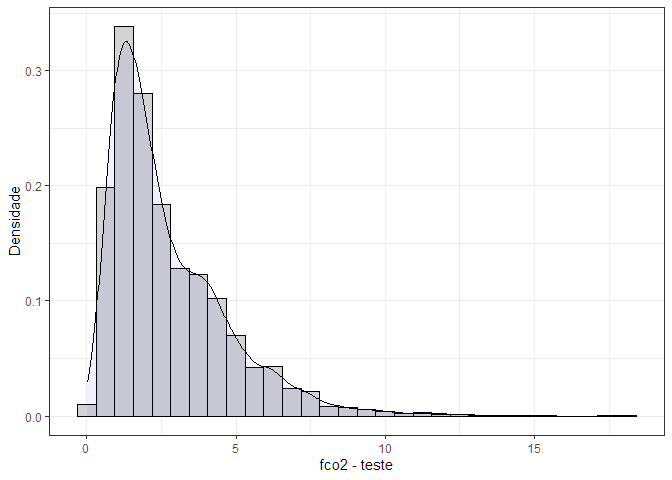
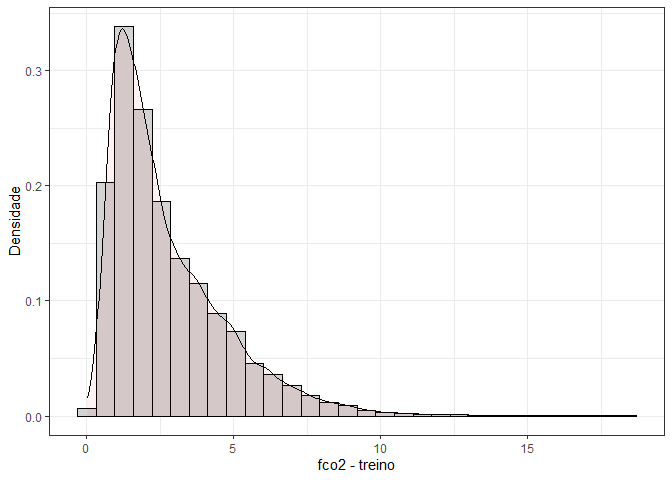
redes neurais - pronto

diff --git a/README.md b/README.md
@@ -108,6 +108,20 @@ glimpse(data_set)
 #> $ inso           <dbl> 10.1, 10.1, 10.1, 10.1, 10.1, 10.1, 10.1, 10.1, 10.1, 1…
 ```
 
+##### Extraindo o grupo de variáveis
+
+``` r
+time_var <- data_set |> select(data:month) |> names()
+catego_var <- data_set |> select(cultura, manejo, tratamento) |> names()
+din_var <- data_set |> select(fco2:us,pla) |> names()
+chemical_var <- data_set |> select(ph:v,hlifs) |> names()
+physical_var <- data_set |> select(ds:vtp) |> names()
+textural_var <- data_set |> select(at:arg) |> names()
+textural_var <- data_set |> select(at:arg) |> names()
+orbital_var <- data_set |> select(xco2_trend:sif) |> names()
+meteorological_var <- data_set |> select(tmed:inso) |> names()
+```
+
 ### Dividindo a base entre treino e teste
 
 ``` r
@@ -115,7 +129,7 @@ fco2_initial_split <- initial_split(data_set, prop = 0.80)
 fco2_train <- training(fco2_initial_split)
 # fco2_test <- testing(fco2_initial_split)
 # visdat::vis_miss(fco2_test)
-fco2_train  %>% 
+fco2_train  |>  
   ggplot(aes(x=fco2, y=..density..))+
   geom_histogram(bins = 30, color="black",  fill="lightgray")+
   geom_density(alpha=.05,fill="red")+
@@ -123,11 +137,11 @@ fco2_train  %>%
   labs(x="fco2 - treino", y = "Densidade")
 ```
 
-![](README_files/figure-gfm/unnamed-chunk-4-1.png)<!-- -->
+![](README_files/figure-gfm/unnamed-chunk-5-1.png)<!-- -->
 
 ``` r
 fco2_testing <- testing(fco2_initial_split)
-fco2_testing  %>% 
+fco2_testing  |>  
   ggplot(aes(x=fco2, y=..density..))+
   geom_histogram(bins = 30, color="black",  fill="lightgray")+
   geom_density(alpha=.05,fill="blue")+
@@ -135,7 +149,7 @@ fco2_testing  %>%
   labs(x="fco2 - teste", y = "Densidade")
 ```
 
-![](README_files/figure-gfm/unnamed-chunk-5-1.png)<!-- -->
+![](README_files/figure-gfm/unnamed-chunk-6-1.png)<!-- -->
 
 ### Definindo a Reamostragem
 
@@ -147,46 +161,45 @@ fco2_resamples <- vfold_cv(fco2_train, v = 5)
 
 ``` r
 fco2_recipe <- recipe(fco2 ~ ., 
-                      data = fco2_train %>% 
-            select(fco2:inso) 
-) %>%  
-  step_normalize(all_numeric_predictors())  %>% 
-  step_naomit() %>%  
-  step_novel(all_nominal_predictors()) %>% 
-  step_zv(all_predictors()) %>%
-  # step_naomit(c(ts, us)) %>% 
-  step_impute_median(where(is.numeric)) %>% # inputação da mediana nos numéricos
-  # step_poly(c(Us,Ts), degree = 2)  %>%  
-  step_dummy(all_nominal_predictors())
+                      data = fco2_train |>  
+            select(year,manejo, fco2:inso, -xco2_trend) # 
+) |>   
+  # step_naomit(all_outcomes()) |>  # remove linhas sem fco2  
+  step_naomit(c(ts, us)) |>  # retira NAs somente de ts e us
+  step_novel(all_nominal_predictors()) |>  # evitar problemas quando aparece categoria nova
+  step_zv(all_predictors()) |> # evita problemas com variância zero 
+  step_poly(c(us,ts), degree = 2)  |> #polinômios de us e ts de grau 2  
+  step_impute_median(all_numeric_predictors()) |>  # inputação da mediana - antes de normalize
+  step_normalize(all_numeric_predictors())  |>  # padronização normal (x-mu)/sigmma
+  step_dummy(all_nominal_predictors()) # converte fatores em variáveis binárias
 bake(prep(fco2_recipe), new_data = NULL)
-#> # A tibble: 11,981 × 40
-#>         ts     us      ph      mo      p      k     ca      mg    h_al      sb
-#>      <dbl>  <dbl>   <dbl>   <dbl>  <dbl>  <dbl>  <dbl>   <dbl>   <dbl>   <dbl>
-#>  1  0.527   0.206 -0.845   0.0694 -0.775 -0.685 -0.594  0.120   0.333  -0.481 
-#>  2 -0.0801 -0.134 -0.192  -1.55    5.93  -1.07  -0.893 -1.80   -1.57   -1.26  
-#>  3  0.982  -0.247 -0.682   0.959  -0.473 -0.313 -0.386  0.693   0.542  -0.132 
-#>  4  1.27   -0.700 -0.0285 -0.416  -0.321 -0.592 -0.525 -0.453  -0.360  -0.573 
-#>  5  0.257  -0.421 -1.17    0.393  -0.876 -0.313 -0.871 -0.262  -1.68   -0.747 
-#>  6  0.0211 -0.248  0.788  -0.254  -0.725 -0.872 -0.247  1.08   -1.05    0.0112
-#>  7  1.01    0.885  0.298   0.0694 -0.170  1.78   0.931  1.08   -0.0482  1.17  
-#>  8 -3.50    0.840 -0.845  -1.47    0.586 -0.220 -0.594  0.120   1.72   -0.430 
-#>  9  1.17   -0.813 -1.01    0.474  -0.674  0.106 -0.733 -0.0709  1.37   -0.547 
-#> 10  0.696  -1.15   0.951   1.44   -0.473 -0.220  2.60   1.65   -0.499   2.34  
-#> # ℹ 11,971 more rows
-#> # ℹ 30 more variables: ctc <dbl>, v <dbl>, ds <dbl>, macro <dbl>, micro <dbl>,
-#> #   vtp <dbl>, pla <dbl>, at <dbl>, silte <dbl>, arg <dbl>, hlifs <dbl>,
-#> #   xco2_trend <dbl>, xco2 <dbl>, sif <dbl>, tmed <dbl>, tmax <dbl>,
-#> #   tmin <dbl>, umed <dbl>, umax <dbl>, umin <dbl>, pk_pa <dbl>, rad <dbl>,
-#> #   par <dbl>, eto <dbl>, velmax <dbl>, velmin <dbl>, dir_vel <dbl>,
-#> #   chuva <dbl>, inso <dbl>, fco2 <dbl>
+#> # A tibble: 10,442 × 52
+#>      year     ph     mo       p      k      ca      mg    h_al     sb    ctc
+#>     <dbl>  <dbl>  <dbl>   <dbl>  <dbl>   <dbl>   <dbl>   <dbl>  <dbl>  <dbl>
+#>  1 -1.73  -0.110 -1.51   0.634  -1.06  -0.869  -1.55   -1.61   -1.18  -2.25 
+#>  2 -1.49  -0.285  0.323  0.183   1.45   0.661   0.535   0.775   0.794  1.16 
+#>  3  0.735 -0.809 -1.05   0.710  -0.393 -0.462  -0.230   0.775  -0.447  0.404
+#>  4  1.23  -0.984 -1.62   0.394   0.173 -0.743  -0.421   1.05   -0.644  0.538
+#>  5  0.488 -0.460  0.970 -0.607  -0.487  0.0293  0.918   0.293   0.218  0.366
+#>  6  0.241 -1.51   1.37  -0.607  -0.440 -0.322   0.535   1.67   -0.140  1.42 
+#>  7 -1.73  -0.110 -1.62  -0.0276 -1.04  -0.932  -1.72   -1.58   -1.27  -2.27 
+#>  8 -0.993  0.414  2.05   0.335   1.87   1.64    0.0760 -0.0873  1.44   0.763
+#>  9 -0.499  2.56   0.524  0.438   0.827  2.07    1.87   -0.972   2.13   0.359
+#> 10  1.23   1.11  -0.971 -0.818  -0.958 -0.392  -0.995  -1.71   -0.665 -1.64 
+#> # ℹ 10,432 more rows
+#> # ℹ 42 more variables: v <dbl>, ds <dbl>, macro <dbl>, micro <dbl>, vtp <dbl>,
+#> #   pla <dbl>, at <dbl>, silte <dbl>, arg <dbl>, hlifs <dbl>, xco2 <dbl>,
+#> #   sif <dbl>, tmed <dbl>, tmax <dbl>, tmin <dbl>, umed <dbl>, umax <dbl>,
+#> #   umin <dbl>, pk_pa <dbl>, rad <dbl>, par <dbl>, eto <dbl>, velmax <dbl>,
+#> #   velmin <dbl>, dir_vel <dbl>, chuva <dbl>, inso <dbl>, fco2 <dbl>,
+#> #   us_poly_1 <dbl>, us_poly_2 <dbl>, ts_poly_1 <dbl>, ts_poly_2 <dbl>, …
 ```
 
 #### Definição do Modelo de RNA - MultiLayer Perceptron
 
 ``` r
-fco2_nn_model <- mlp(
-  hidden_units = 4) %>% # margin sempre para regressão
-  set_mode("regression") %>%
+fco2_nn_model <- mlp() |>  # margin sempre para regressão
+  set_mode("regression") |> 
   set_engine("nnet")
 ```
 
@@ -197,16 +210,16 @@ fco2_nn_model <- mlp(
   hidden_units = tune(),
   penalty = tune(),
   epochs = tune()
-  ) %>% # margin sempre para regressão
-  set_mode("regression") %>%
+  ) |>  # margin sempre para regressão
+  set_mode("regression") |> 
   set_engine("nnet")
 ```
 
 #### Workflow e tunagem
 
 ``` r
-fco2_nn_wf <- workflow()   %>%
-  add_model(fco2_nn_model) %>%
+fco2_nn_wf <- workflow()   |> 
+  add_model(fco2_nn_model) |> 
   add_recipe(fco2_recipe)
 # Criando a matriz (grid) com os valores de hiperparâmetros a serem testados
 # grid_nn <- expand.grid(
@@ -216,17 +229,17 @@ fco2_nn_wf <- workflow()   %>%
 # )
 
 grid_nn <- grid_regular(
-  hidden_units(range = c(2, 10)), ## tentar até 250
-  penalty(range = c(3, 10)), ## no máximo 30
-  epochs(range = c(5, 10)),
-  levels = c(2, 2, 2)
+  hidden_units(range = c(2, 128)), ## tentar até 250
+  penalty(range = c(-5, 0), trans = scales::log10_trans()), ## no máximo 30
+  epochs(range = c(20, 300)),
+  levels = c(3, 3, 3)
 )
 glimpse(grid_nn)
-#> Rows: 8
+#> Rows: 27
 #> Columns: 3
-#> $ hidden_units <int> 2, 10, 2, 10, 2, 10, 2, 10
-#> $ penalty      <dbl> 1e+03, 1e+03, 1e+10, 1e+10, 1e+03, 1e+03, 1e+10, 1e+10
-#> $ epochs       <int> 5, 5, 5, 5, 10, 10, 10, 10
+#> $ hidden_units <int> 2, 65, 128, 2, 65, 128, 2, 65, 128, 2, 65, 128, 2, 65, 12…
+#> $ penalty      <dbl> 0.000010000, 0.000010000, 0.000010000, 0.003162278, 0.003…
+#> $ epochs       <int> 20, 20, 20, 20, 20, 20, 20, 20, 20, 160, 160, 160, 160, 1…
 
 fco2_nn_tune_grid <- tune_grid(
   fco2_nn_wf,
@@ -237,52 +250,53 @@ fco2_nn_tune_grid <- tune_grid(
 autoplot(fco2_nn_tune_grid)
 ```
 
-![](README_files/figure-gfm/unnamed-chunk-10-1.png)<!-- -->
+![](README_files/figure-gfm/unnamed-chunk-11-1.png)<!-- -->
 
 ### Coletando métricas
 
 ``` r
 collect_metrics(fco2_nn_tune_grid)
-#> # A tibble: 8 × 9
-#>   hidden_units     penalty epochs .metric .estimator  mean     n std_err .config
-#>          <int>       <dbl>  <int> <chr>   <chr>      <dbl> <int>   <dbl> <chr>  
-#> 1            2        1000      5 rmse    standard    2.04     5  0.0901 Prepro…
-#> 2           10        1000      5 rmse    standard    1.58     5  0.0106 Prepro…
-#> 3            2 10000000000      5 rmse    standard    3.40     5  0.0386 Prepro…
-#> 4           10 10000000000      5 rmse    standard    3.41     5  0.0401 Prepro…
-#> 5            2        1000     10 rmse    standard    1.85     5  0.0463 Prepro…
-#> 6           10        1000     10 rmse    standard    1.51     5  0.0236 Prepro…
-#> 7            2 10000000000     10 rmse    standard    3.42     5  0.0223 Prepro…
-#> 8           10 10000000000     10 rmse    standard    3.42     5  0.0210 Prepro…
-fco2_nn_tune_grid %>%
+#> # A tibble: 9 × 9
+#>   hidden_units penalty epochs .metric .estimator  mean     n std_err .config    
+#>          <int>   <dbl>  <int> <chr>   <chr>      <dbl> <int>   <dbl> <chr>      
+#> 1            2 0.00001     20 rmse    standard    1.46     5  0.0340 Preprocess…
+#> 2            2 0.00316     20 rmse    standard    1.83     5  0.241  Preprocess…
+#> 3            2 1           20 rmse    standard    1.63     5  0.0574 Preprocess…
+#> 4            2 0.00001    160 rmse    standard    1.42     5  0.0260 Preprocess…
+#> 5            2 0.00316    160 rmse    standard    1.42     5  0.0468 Preprocess…
+#> 6            2 1          160 rmse    standard    1.32     5  0.0264 Preprocess…
+#> 7            2 0.00001    300 rmse    standard    1.92     5  0.386  Preprocess…
+#> 8            2 0.00316    300 rmse    standard    1.36     5  0.0244 Preprocess…
+#> 9            2 1          300 rmse    standard    1.31     5  0.0234 Preprocess…
+fco2_nn_tune_grid |> 
   show_best(metric = "rmse", n = 6)
 #> # A tibble: 6 × 9
-#>   hidden_units     penalty epochs .metric .estimator  mean     n std_err .config
-#>          <int>       <dbl>  <int> <chr>   <chr>      <dbl> <int>   <dbl> <chr>  
-#> 1           10        1000     10 rmse    standard    1.51     5  0.0236 Prepro…
-#> 2           10        1000      5 rmse    standard    1.58     5  0.0106 Prepro…
-#> 3            2        1000     10 rmse    standard    1.85     5  0.0463 Prepro…
-#> 4            2        1000      5 rmse    standard    2.04     5  0.0901 Prepro…
-#> 5            2 10000000000      5 rmse    standard    3.40     5  0.0386 Prepro…
-#> 6           10 10000000000      5 rmse    standard    3.41     5  0.0401 Prepro…
+#>   hidden_units penalty epochs .metric .estimator  mean     n std_err .config    
+#>          <int>   <dbl>  <int> <chr>   <chr>      <dbl> <int>   <dbl> <chr>      
+#> 1            2 1          300 rmse    standard    1.31     5  0.0234 Preprocess…
+#> 2            2 1          160 rmse    standard    1.32     5  0.0264 Preprocess…
+#> 3            2 0.00316    300 rmse    standard    1.36     5  0.0244 Preprocess…
+#> 4            2 0.00316    160 rmse    standard    1.42     5  0.0468 Preprocess…
+#> 5            2 0.00001    160 rmse    standard    1.42     5  0.0260 Preprocess…
+#> 6            2 0.00001     20 rmse    standard    1.46     5  0.0340 Preprocess…
 ```
 
 ### Desempenho do modelo final
 
 ``` r
 fco2_nn_best_params <- select_best(fco2_nn_tune_grid, metric = "rmse")
-fco2_nn_wf <- fco2_nn_wf %>%
+fco2_nn_wf <- fco2_nn_wf |> 
   finalize_workflow(fco2_nn_best_params)
 fco2_nn_last_fit <- last_fit(fco2_nn_wf, fco2_initial_split)
 
 ## Criando os preditos
 fco2_test_preds <- bind_rows(
-  collect_predictions(fco2_nn_last_fit)  %>%
+  collect_predictions(fco2_nn_last_fit)  |> 
     mutate(modelo = "nn"))
 
 fco2_test <- testing(fco2_initial_split)
 
-fco2_test_preds %>%
+fco2_test_preds |> 
   ggplot(aes(x=.pred, y=fco2)) +
   geom_point()+
   theme_bw() +
@@ -292,7 +306,7 @@ fco2_test_preds %>%
   geom_abline (slope=1, linetype = "dashed", color="Red")
 ```
 
-![](README_files/figure-gfm/unnamed-chunk-12-1.png)<!-- -->
+![](README_files/figure-gfm/unnamed-chunk-13-1.png)<!-- -->
 
 ``` r
 fco2_nn_last_fit_model <- fco2_nn_last_fit$.workflow[[1]]$fit$fit
@@ -305,35 +319,26 @@ vip(fco2_nn_last_fit_model,
   theme_bw()
 ```
 
-![](README_files/figure-gfm/unnamed-chunk-13-1.png)<!-- -->
+![](README_files/figure-gfm/unnamed-chunk-14-1.png)<!-- -->
 
 ``` r
-features <- rownames(fco2_nn_last_fit_model$fit$importance)
-importance_top_10 <- fco2_nn_last_fit_model$fit$importance |> 
-  as_tibble() |> 
-  add_column(feature = features) |> 
-  arrange(desc(IncNodePurity)) |> 
-  relocate(feature) |> 
+importance_top_10 <- vi(fco2_nn_last_fit_model) |> 
+  arrange(desc(Importance)) |> 
   slice(1:10)
 
-atr_fisicos <- features[c(14:17,19:21)]
-atr_quimicos <- features[c(4:13)]
-atr_dinamicos <- features[c(2,3,18)]
-atr_climaticos <- features[c(22:34)]
-atr_orbitais <- features[c(35:36)]
-
 importance_top_10 |> 
-  arrange(IncNodePurity) |> 
   mutate(feature_type = case_when(
-    feature %in% atr_fisicos   ~ "físicos",
-    feature %in% atr_quimicos  ~ "químicos",
-    feature %in% atr_dinamicos ~ "dinâmicos",
-    feature %in% atr_climaticos ~ "climáticos",
-    feature %in% atr_orbitais  ~ "orbitais",
-    TRUE                        ~ "outro"
+    Variable %in% physical_var   ~ "físicos",
+    Variable %in% chemical_var  ~ "químicos",
+    Variable %in% din_var ~ "dinâmicos",
+    Variable %in% meteorological_var ~ "climáticos",
+    Variable %in% orbital_var  ~ "orbitais",
+    Variable %in% textural_var  ~ "textura",
+    Variable %in% time_var  ~ "tempo",
+    TRUE                        ~ "manejo"
   ),
-  feature = feature |> fct_reorder(IncNodePurity)) |> 
-  ggplot(aes(x=IncNodePurity, y=feature, fill = feature_type)) +
+  Variable = Variable |> fct_reorder(Importance)) |> 
+  ggplot(aes(x=Importance, y=Variable, fill = feature_type)) +
   geom_col(color="black") +
   theme_bw()+
   labs(x = "Importância",y="",
@@ -342,10 +347,18 @@ importance_top_10 |>
   scale_fill_viridis_d()
 ```
 
+![](README_files/figure-gfm/unnamed-chunk-15-1.png)<!-- -->
+
+``` r
+
+fco2_nn_last_fit_model$censor_probs |> str()
+#>  list()
+```
+
 ### Principais Métricas
 
 ``` r
-da <- fco2_test_preds %>%
+da <- fco2_test_preds |> 
   filter(fco2 > 0, .pred>0 )
 
 my_r <- cor(da$fco2,da$.pred)
@@ -359,12 +372,12 @@ my_mape <- Metrics::mape(da$fco2,da$.pred)*100
 vector_of_metrics <- c(r=my_r, R2=my_r2, MSE=my_mse, RMSE=my_rmse, MAE=my_mae, MAPE=my_mape)
 print(data.frame(vector_of_metrics))
 #>      vector_of_metrics
-#> r            0.6735429
-#> R2           0.4536600
-#> MSE          2.1730099
-#> RMSE         1.4741133
-#> MAE          1.0309772
-#> MAPE        61.9682722
+#> r            0.7276769
+#> R2           0.5295137
+#> MSE          1.9705748
+#> RMSE         1.4037716
+#> MAE          0.9632924
+#> MAPE        55.6229059
 #>      vector_of_metrics
 #> r            0.6787708
 #> R2           0.4607298
